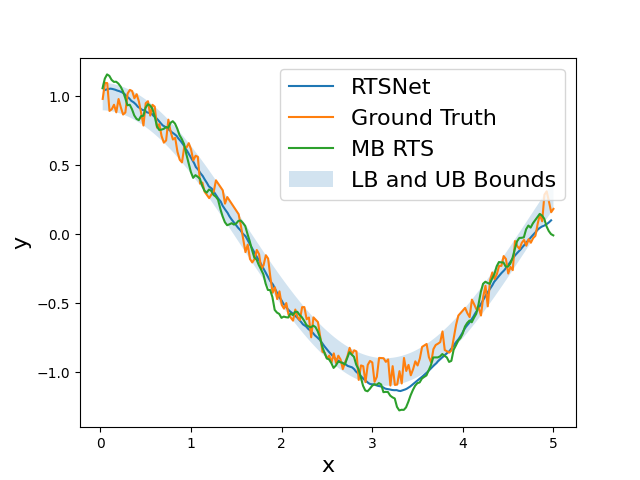
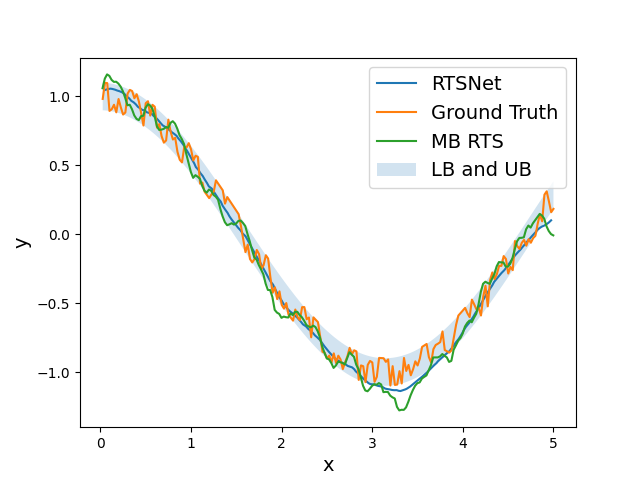
update plotting

diff --git a/main_car.py b/main_car.py
@@ -125,8 +125,8 @@ if wandb_switch:
    wandb.finish() 
 
 # %%
-legend = ["RTSNet", "Ground Truth", "MB RTS", "LB and UB Bounds"]
-font_size = 16
+legend = ["RTSNet", "Ground Truth", "MB RTS", "LB and UB"]
+font_size = 14
 plt.plot(x_out_test[0, :].detach().numpy(), x_out_test[1, :].detach().numpy(), label=legend[0])
 plt.plot(test_target[-1, 0, :].detach().numpy(), test_target[-1, 1, :].detach().numpy(), label=legend[1])
 plt.plot(ERTS_out[-1, 0, :], ERTS_out[-1, 1, :], label=legend[2])
